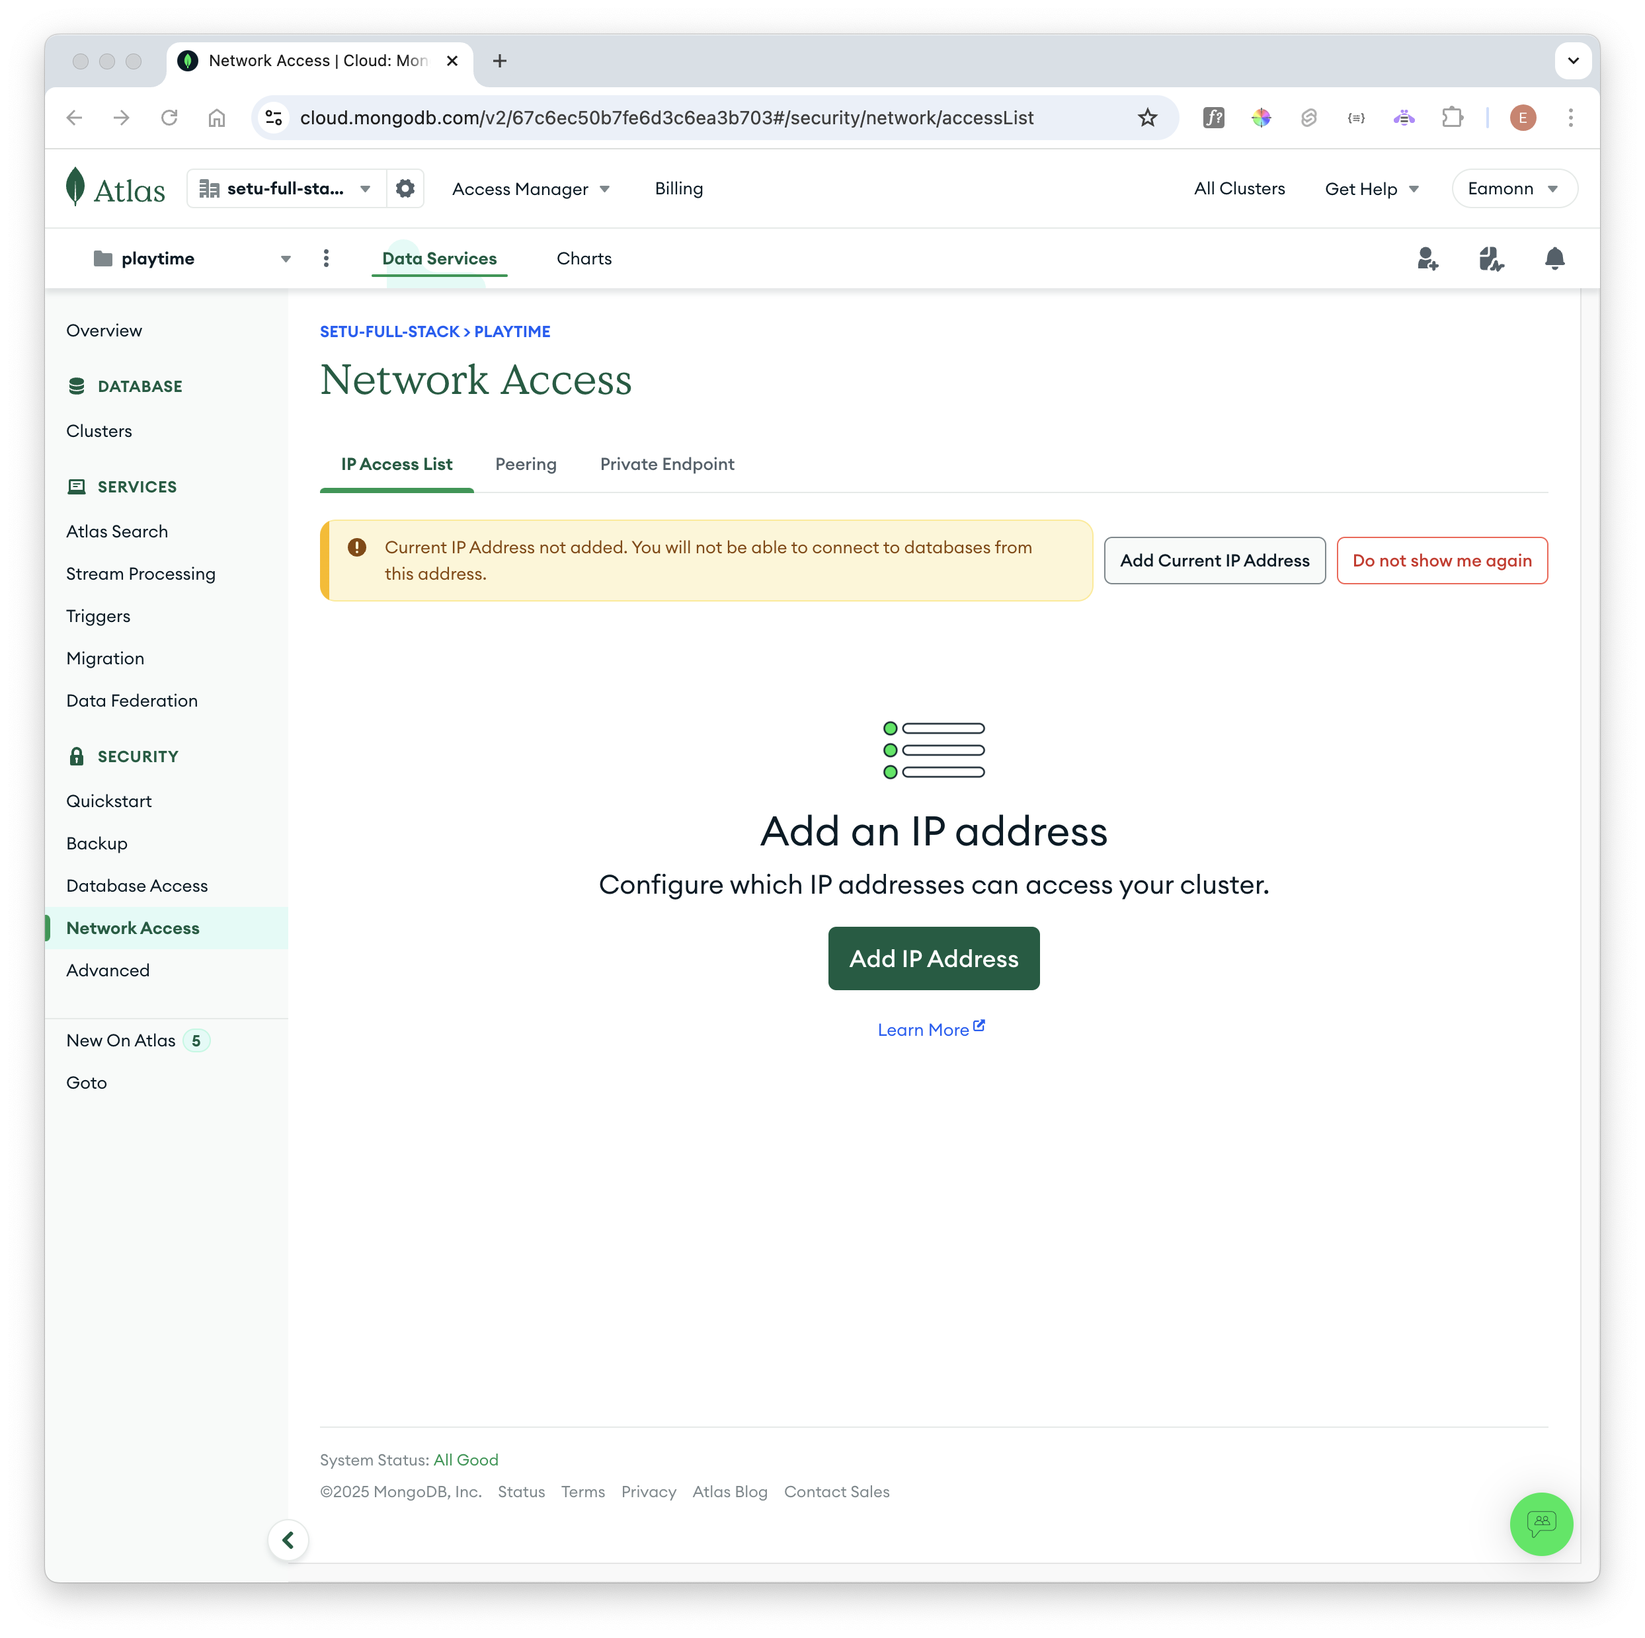
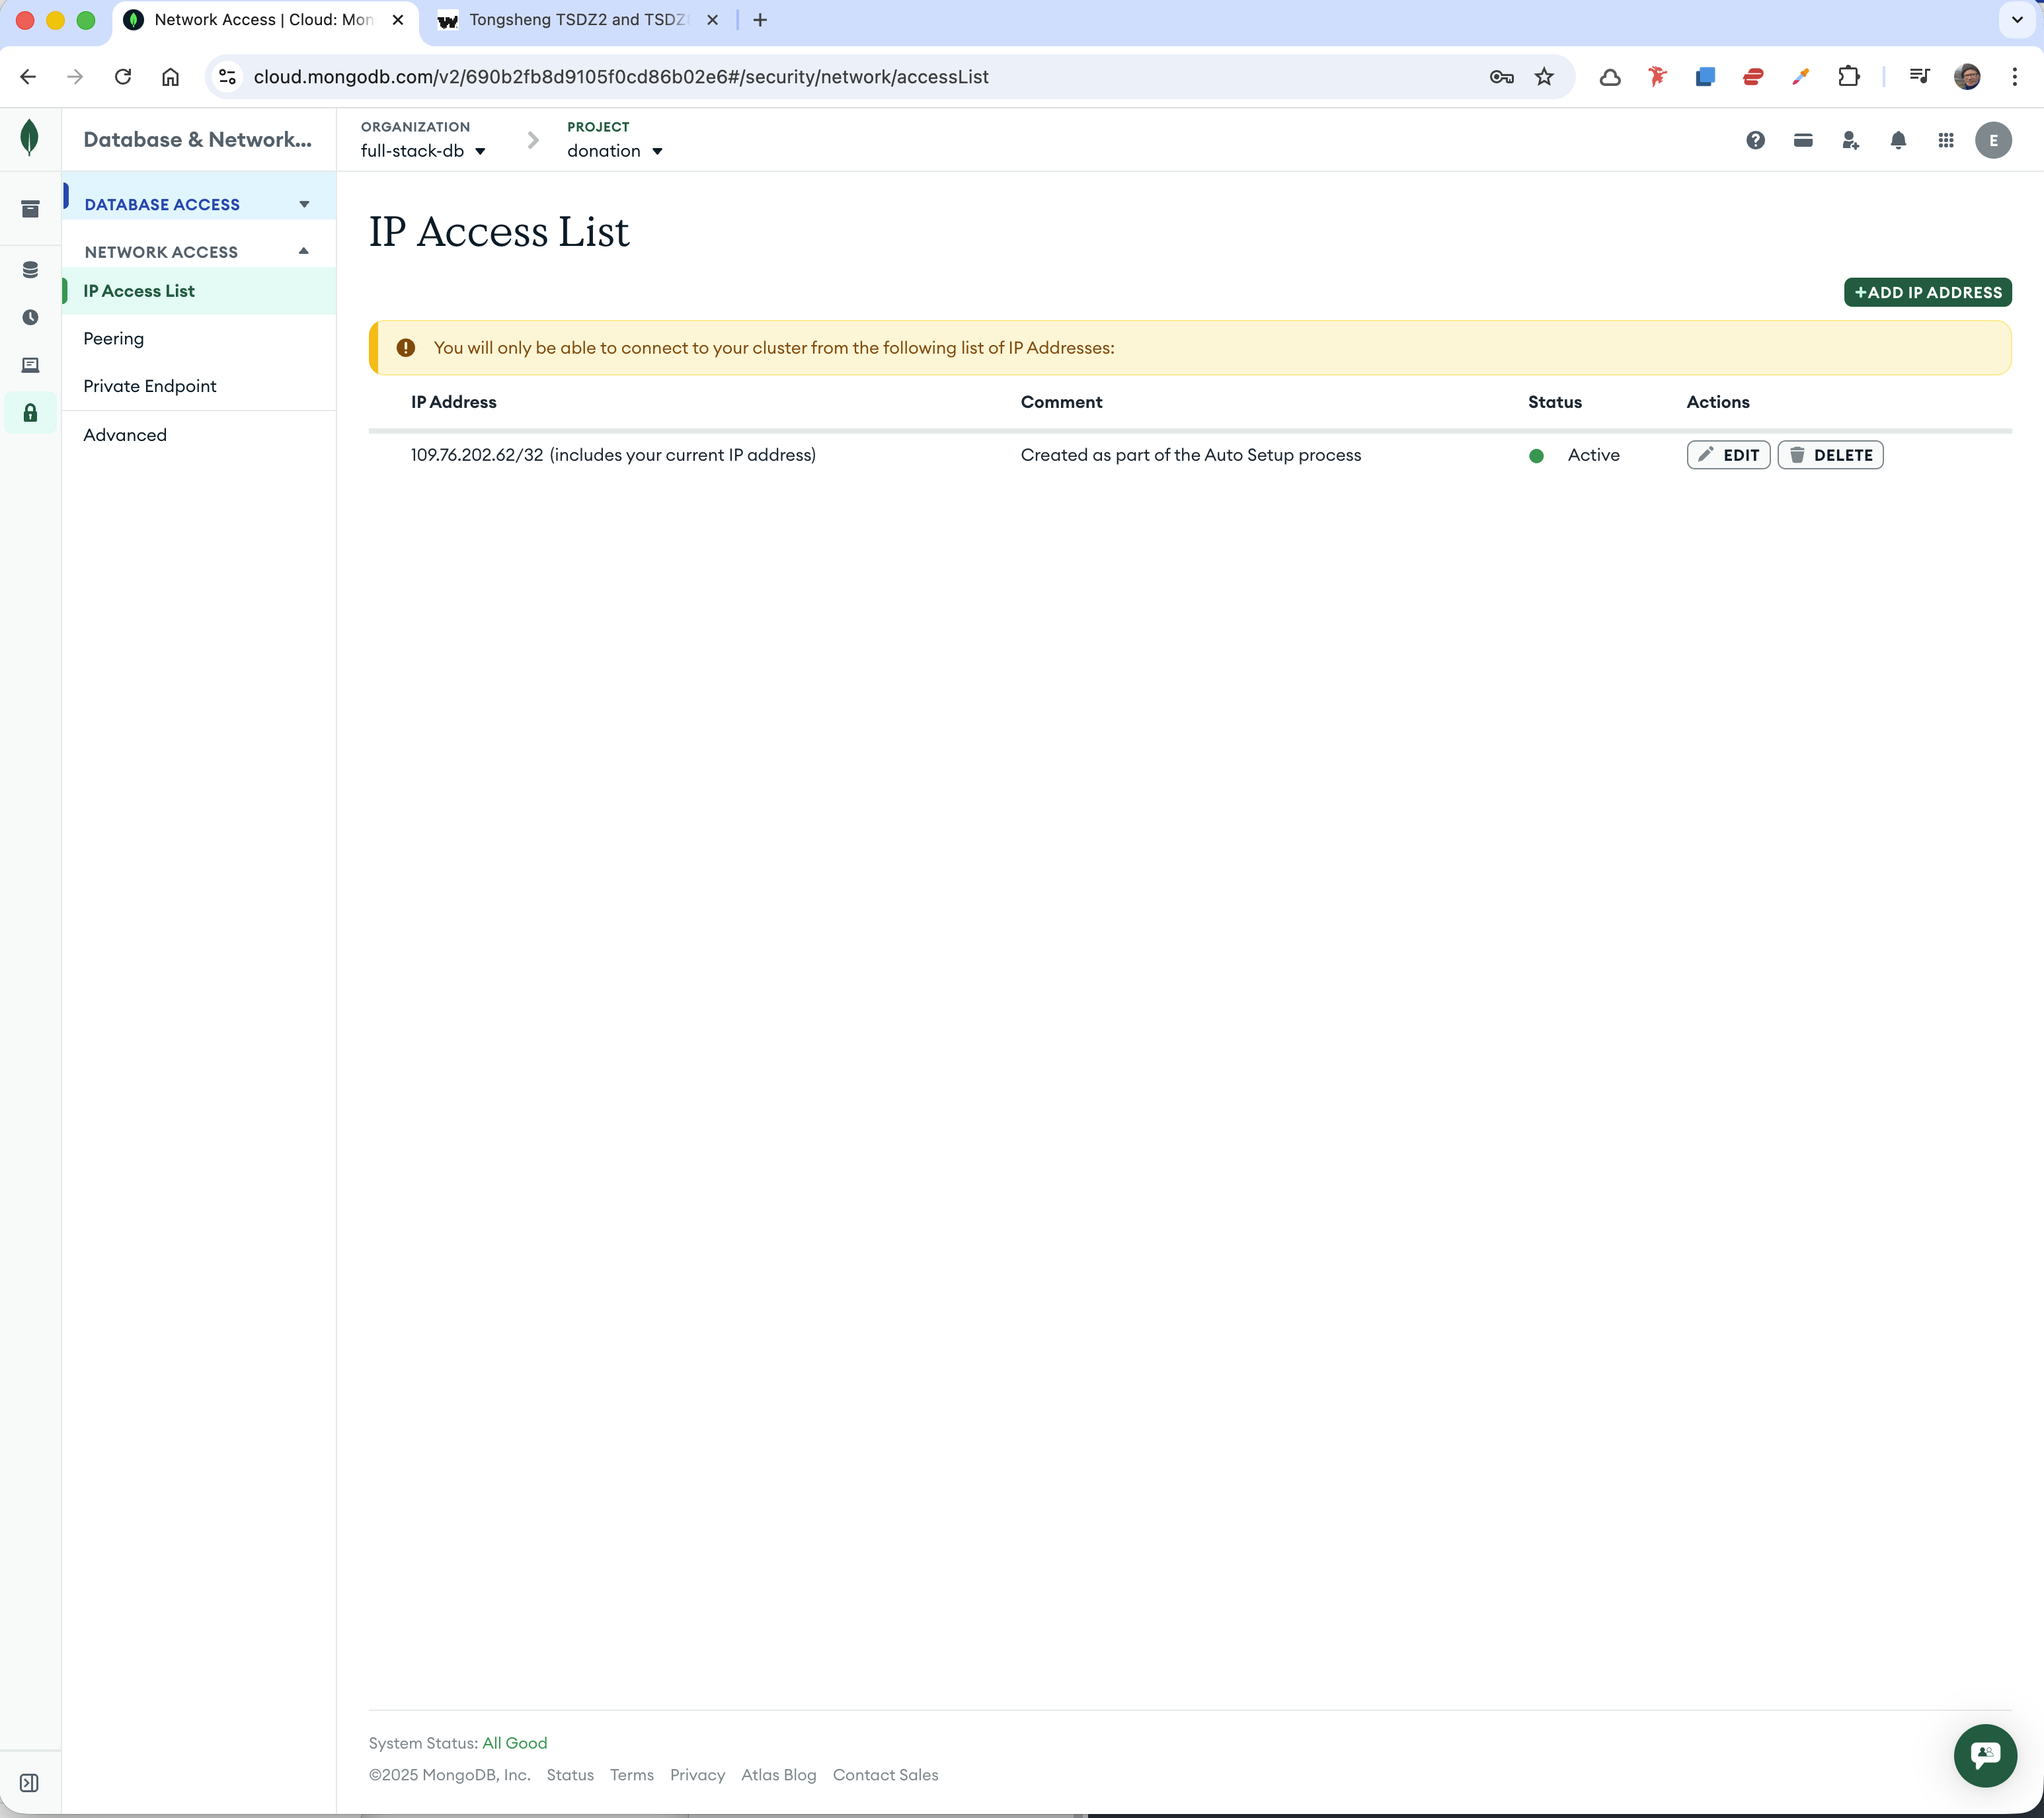
deployment lab update

diff --git a/unit-3-deployment/topic-12-deployment/unit-0/book-0-mongo-atlas/04.04.md b/unit-3-deployment/topic-12-deployment/unit-0/book-0-mongo-atlas/04.04.md
@@ -1,25 +1,45 @@
-# Connecting Studio3T to Cloud Atlas
+# Test Application Connection
 
-Before connecting our application to the Cloud Atlas database, we will first connect Studio 3T.  This will help verify that all is configured correctly.
+Back in our Playtime application, we already have a .env file:
 
-Open Studio 3T  - it may detect that you have a connection string in the clipboard:
+```bash
+cookie_name=COOKIE_NAME_HERE_MUST_BE_32_CHARS__
+cookie_password=COOKIE_EMCRYPTION_KEY_HERE_BE_32_CHARS
+db=mongodb://127.0.0.1:27017/playtime?directConnection=true
+```
 
-![](img/57.png)
+Comment out the db entry, and insert a new connections string from the clipboard:
 
-... select "ok"
+~~~bash
+mongodb+srv://playtime:<db_password>@cl0ster0.gtgl.mongodb.net/?retryWrites=true&w=majority&appName=Cluster0
+~~~
 
-![](img/59.png)
+Replace the `<db_password>` with your password so your .env might look like this:
 
-Select Authentication panel, and reveal the password:
+~~~bash
+cookie_name=COOKIE_NAME_HERE_MUST_BE_32_CHARS__
+cookie_password=COOKIE_EMCRYPTION_KEY_HERE_BE_32_CHARS
+# db=mongodb://127.0.0.1:27017/playtime?directConnection=true
+db=mongodb+srv://playt1me:playtimepass@cl0ster0.gmtgl.m0ng0db.net/?retryWrites=true&w=majority&appName=Cluster0
+~~~
 
-![](img/60.png)
+Restart the application, and verify that it connects successfully:
 
-You will need to enter your password here (the database user you set up in a previous step) - replacing the <db_password> entry and press save.
+```bash
+Server running at: http://localhost:3000
+database connected to test on cluster0-shard-00-00.rhm4m.mongodb.net
+```
 
-![](img/61.png)
+Verify that you can operate the application - sign up, log in and create playlists.
 
-You should then be able to press 'Connect':
+Also, on the mongo service, you should be able to browse the collections and see the data you have entered.
 
-![](img/62.png)
+![](img/63.png)
 
-It should be connected now to the Mongo cloud service.
+Check Studio3T that the database is updating as expected.
+
+![](img/64.png)
+
+## .env & github
+
+If your application is on a public github repo, you will want to avoid committing the above changes to .env (with the new database access string), as this will enable access to whoever can copy the string.

diff --git a/unit-3-deployment/topic-12-deployment/unit-0/book-0-mongo-atlas/03.03.md b/unit-3-deployment/topic-12-deployment/unit-0/book-0-mongo-atlas/03.03.md
@@ -1,15 +1,25 @@
-# Get Connection String
+# Connecting Studio3T to Cloud Atlas
 
-Back on the Clusters panel:
+Before connecting our application to the Cloud Atlas database, we will first connect Studio 3T.  This will help verify that all is configured correctly.
 
-![](img/15x.png)
+Open Studio 3T  - it may detect that you have a connection string in the clipboard:
 
-Select `Connect`:
+![](img/57.png)
 
-![](img/20.png)
+... select "ok"
 
-Press `Connect Your Application (Drivers)`
+![](img/59.png)
 
-![](img/21.png)
+Select Authentication panel, and reveal the password:
 
-The connection string in the above is what we need. Copy this to the clipboard - as we will need it shortly.
+![](img/60.png)
+
+You will need to enter your password here (the database user you set up in a previous step) - replacing the <db_password> entry and press save.
+
+![](img/61.png)
+
+You should then be able to press 'Connect':
+
+![](img/62.png)
+
+It should be connected now to the Mongo cloud service.

diff --git a/unit-3-deployment/topic-12-deployment/unit-0/book-0-mongo-atlas/01.01.md b/unit-3-deployment/topic-12-deployment/unit-0/book-0-mongo-atlas/01.01.md
@@ -38,23 +38,23 @@ And then create a Deployment.
 
 ![](img/43x.png)
 
-Select "Allow access from anywhere" and create a username/password for the database:
+Copy the Username and Password, as you will need them later and then "Create Database User".
 
-![](img/44x.png)Make sure to select "Create Database User" and then press "Close" - keep a record of the name/password you entered.
+Next, move on to "Choose a connection Method":
 
-![](img/45x.png)
+![](img/44x.png)
 
+From the subsequent dialog, select MongoDB for VS Code:
 
+![](img/46x.png)
 
+This should reveal the connection string we need:
 
+![](img/47x.png)
 
+Copy this string now for use later in this lab and press done:
 
-
-
-
-
-
-
+![](img/48x.png)
 
 
 

diff --git a/unit-3-deployment/topic-12-deployment/unit-0/book-0-mongo-atlas/02.02.md b/unit-3-deployment/topic-12-deployment/unit-0/book-0-mongo-atlas/02.02.md
@@ -6,7 +6,7 @@ For the project you have created, select the `Network access` tab:
 
 Select Add IP Address:
 
-![](img/15.png)
+![](img/49x.png)
 
 And select `Allow Access from Anywhere`, press `Confirm` - and your cluster will be reconfigured:
 
